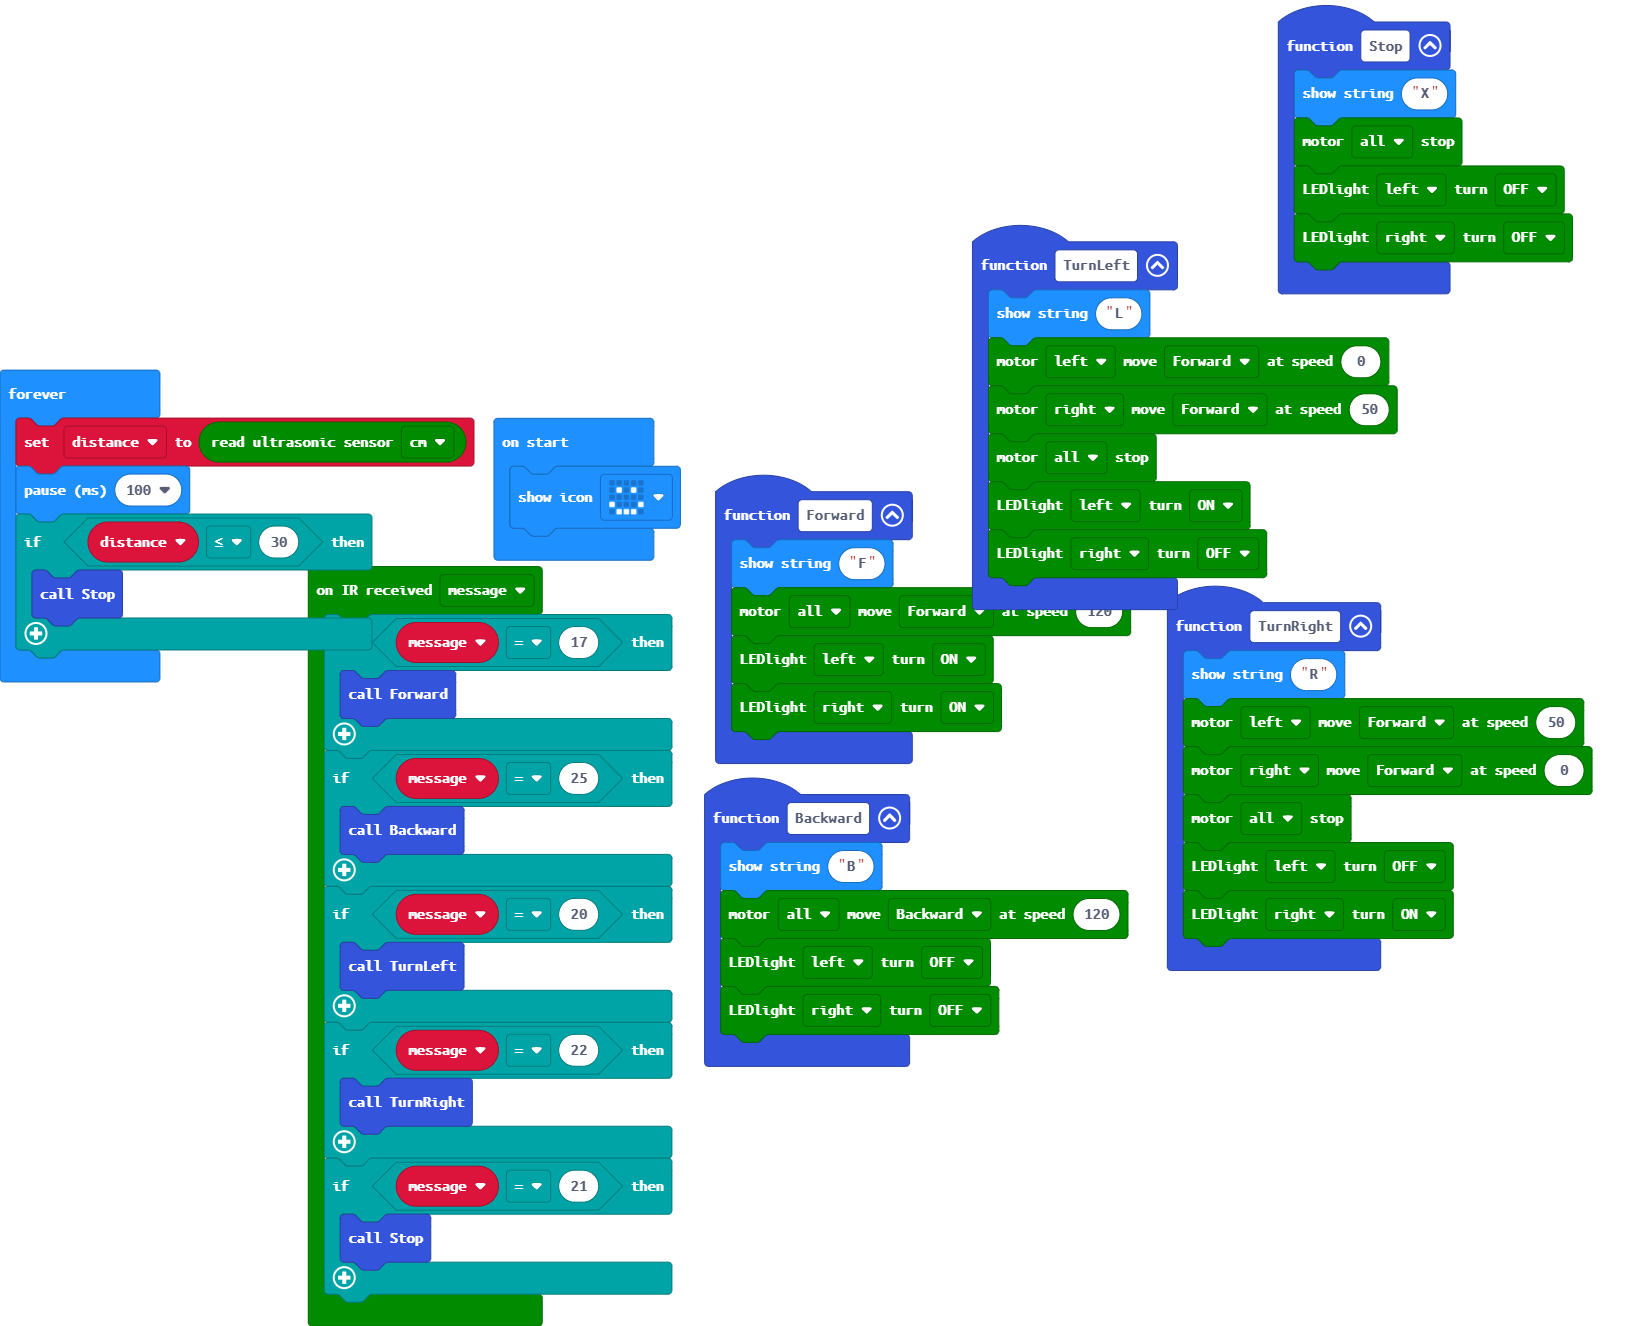
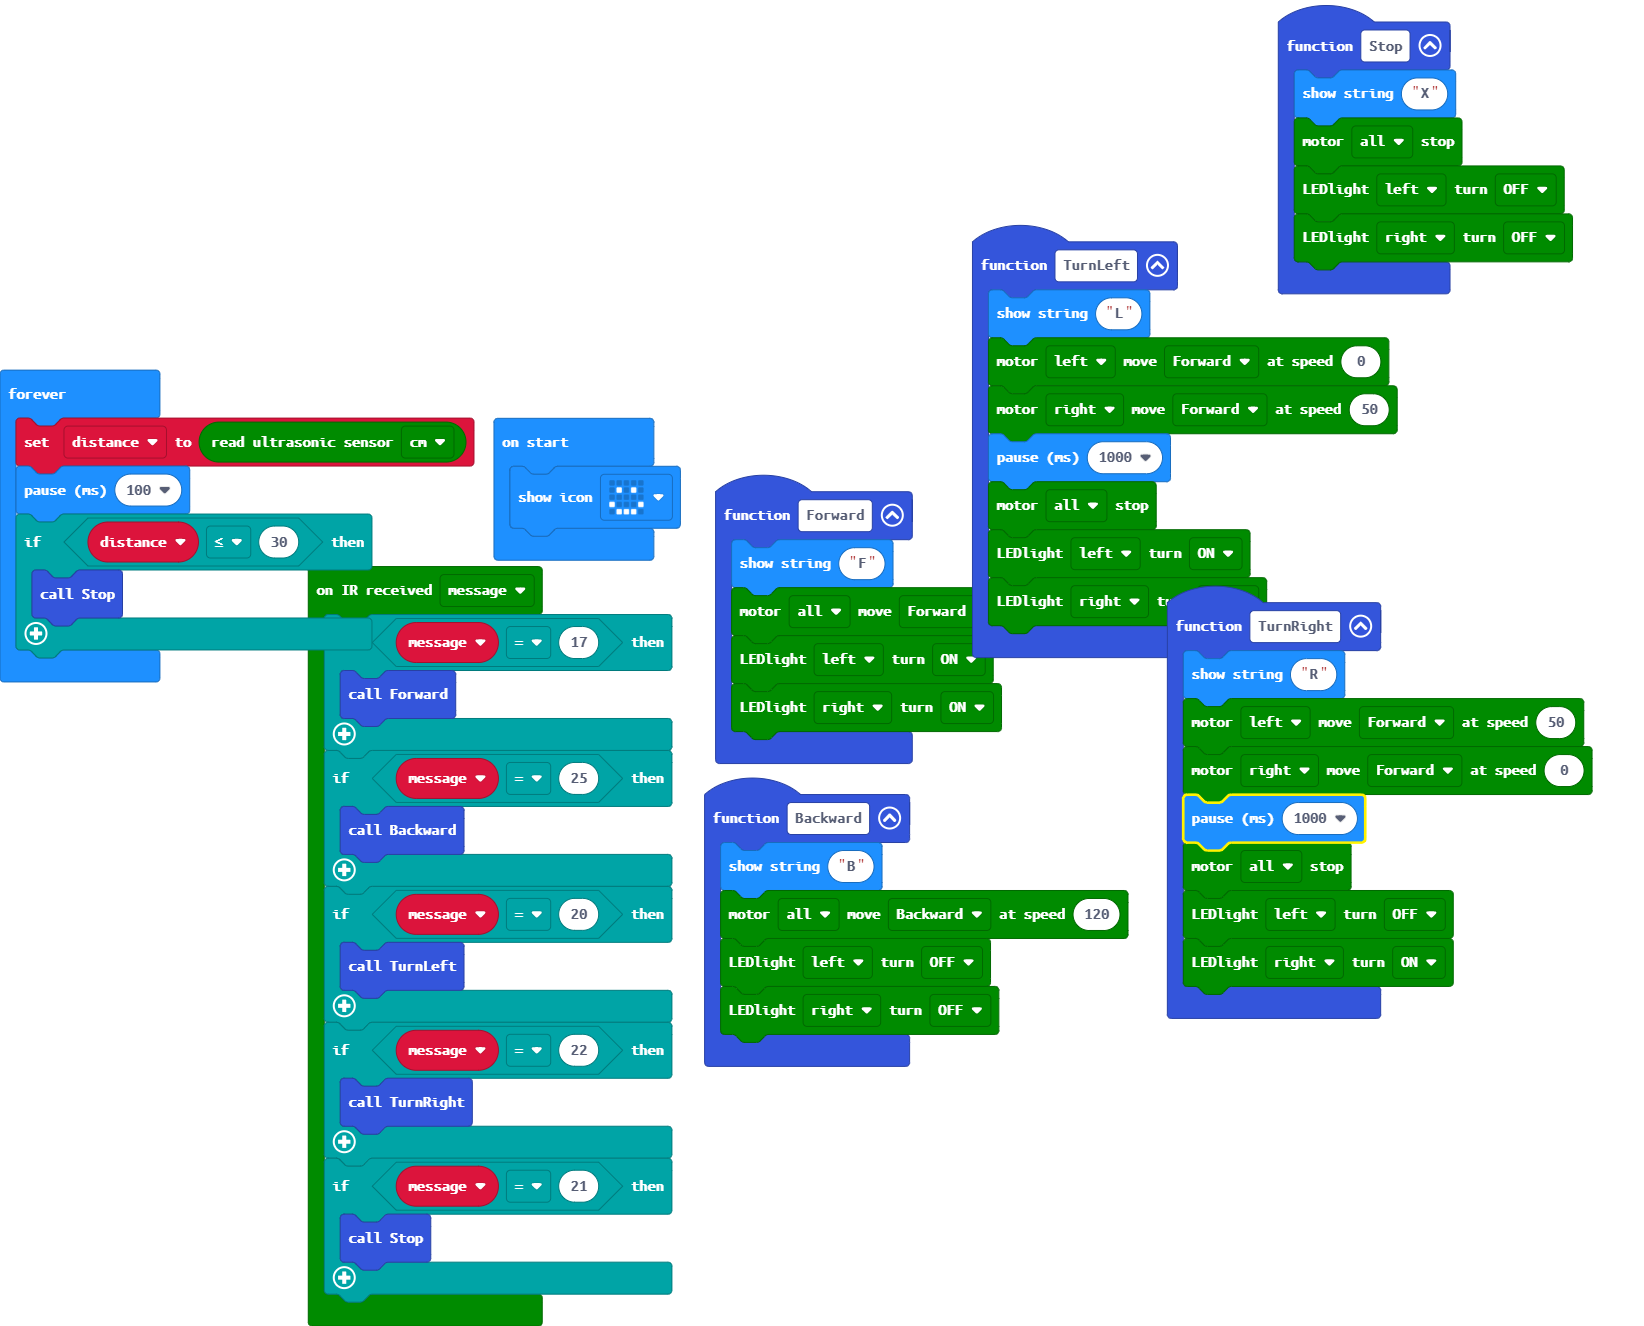
Update main.blocks, main.ts

Changed region(s): [[0.6825, 0.5875, 0.8996, 0.773], [0.5894, 0.3092, 0.7755, 0.4947]]

diff --git a/main.ts b/main.ts
@@ -8,6 +8,7 @@ function TurnLeft () {
     basic.showString("L")
     maqueen.motorRun(maqueen.Motors.M1, maqueen.Dir.CW, 0)
     maqueen.motorRun(maqueen.Motors.M2, maqueen.Dir.CW, 50)
+    basic.pause(1000)
     maqueen.motorStop(maqueen.Motors.All)
     maqueen.writeLED(maqueen.LED.LEDLeft, maqueen.LEDswitch.turnOn)
     maqueen.writeLED(maqueen.LED.LEDRight, maqueen.LEDswitch.turnOff)
@@ -33,6 +34,7 @@ function TurnRight () {
     basic.showString("R")
     maqueen.motorRun(maqueen.Motors.M1, maqueen.Dir.CW, 50)
     maqueen.motorRun(maqueen.Motors.M2, maqueen.Dir.CW, 0)
+    basic.pause(1000)
     maqueen.motorStop(maqueen.Motors.All)
     maqueen.writeLED(maqueen.LED.LEDLeft, maqueen.LEDswitch.turnOff)
     maqueen.writeLED(maqueen.LED.LEDRight, maqueen.LEDswitch.turnOn)
